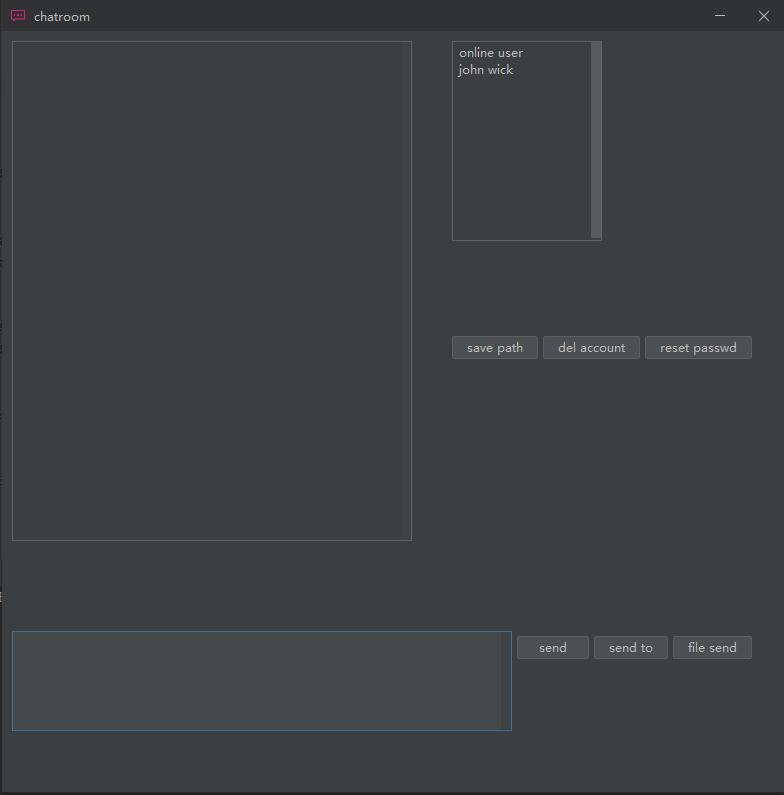
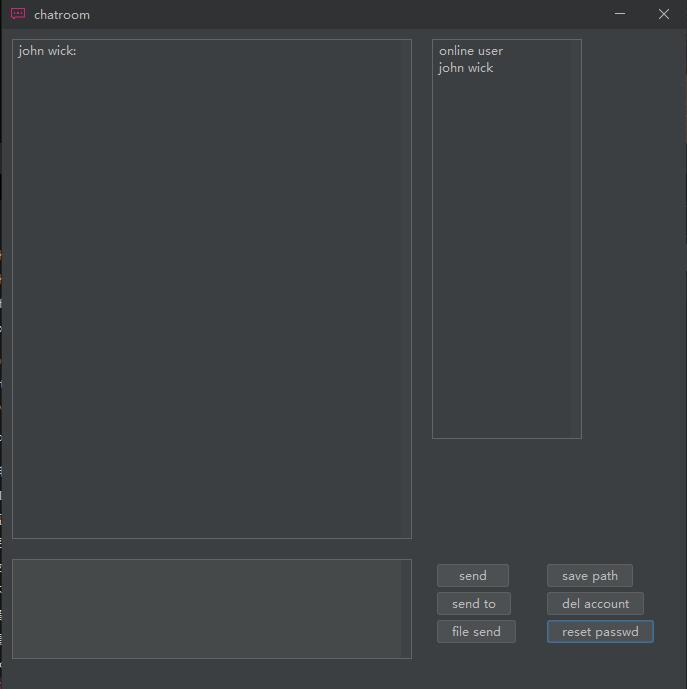
优化主界面UI

diff --git a/mult chatroom gui/gui/chatroom_gui.java b/mult chatroom gui/gui/chatroom_gui.java
@@ -404,7 +404,7 @@ class gui extends gui_base
         //window set
 
         main_window = new JFrame("chatroom");
-        main_window.setSize(800,800);
+        main_window.setSize(700,700);
         main_window.setLocationRelativeTo(null);
         main_window.setResizable(false);
         main_window.setDefaultCloseOperation(WindowConstants.EXIT_ON_CLOSE);
@@ -473,7 +473,7 @@ class gui extends gui_base
         JScrollPane input_scroll = new JScrollPane(input_text, JScrollPane.VERTICAL_SCROLLBAR_ALWAYS,
                 JScrollPane.HORIZONTAL_SCROLLBAR_NEVER);
 
-        input_scroll.setBounds(10,600,500,100);
+        input_scroll.setBounds(10,530,400,100);
 
         //panel set
 
@@ -482,23 +482,23 @@ class gui extends gui_base
         panel.add(send_btn);
         panel.add(send_to_btn);
         panel.add(file_choose_btn);
-        panel.setBounds(510,600,800,300);
+        panel.setBounds(430,530,100,100);
 
         //func_panel set
 
-        JPanel func_panel = new JPanel();
+        JPanel func_panel = new JPanel(new FlowLayout(FlowLayout.LEFT));
 
         func_panel.add(file_path_btn);
         func_panel.add(del_acc_btn);
         func_panel.add(reset_passwd_btn);
-        func_panel.setBounds(400,300,400,400);
+        func_panel.setBounds(540,530,150,100);
 
         //user_scroll set
 
         JScrollPane user_scroll = new JScrollPane(user_text, JScrollPane.VERTICAL_SCROLLBAR_ALWAYS,
                 JScrollPane.HORIZONTAL_SCROLLBAR_NEVER);
 
-        user_scroll.setBounds(450,10,150,200);
+        user_scroll.setBounds(430,10,150,400);
 
 
         //main_window set
